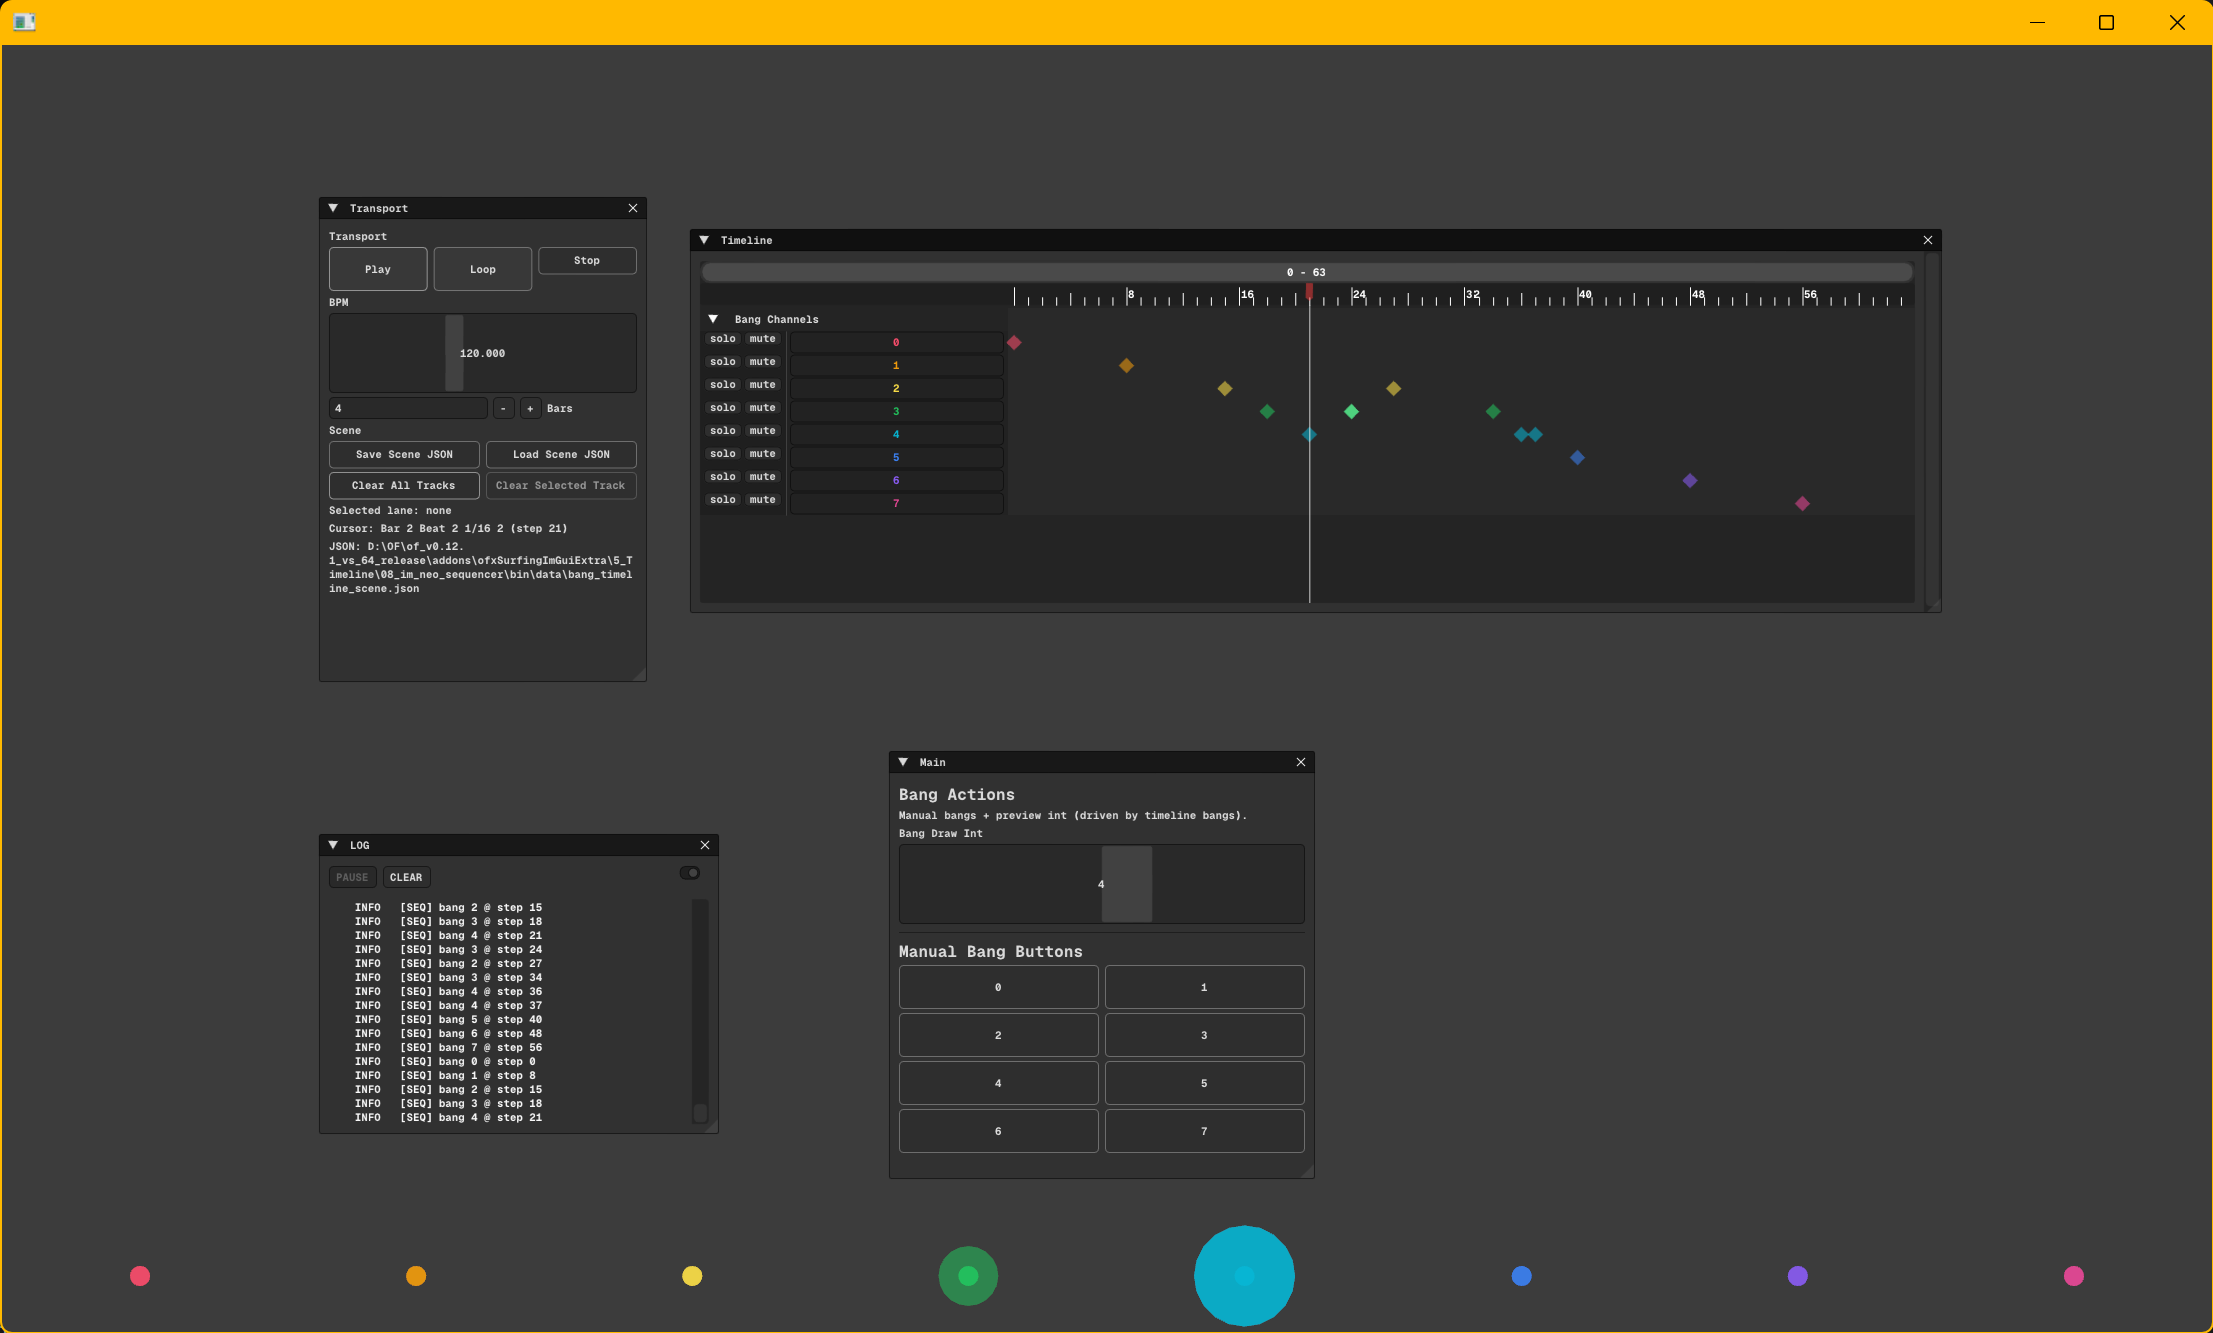
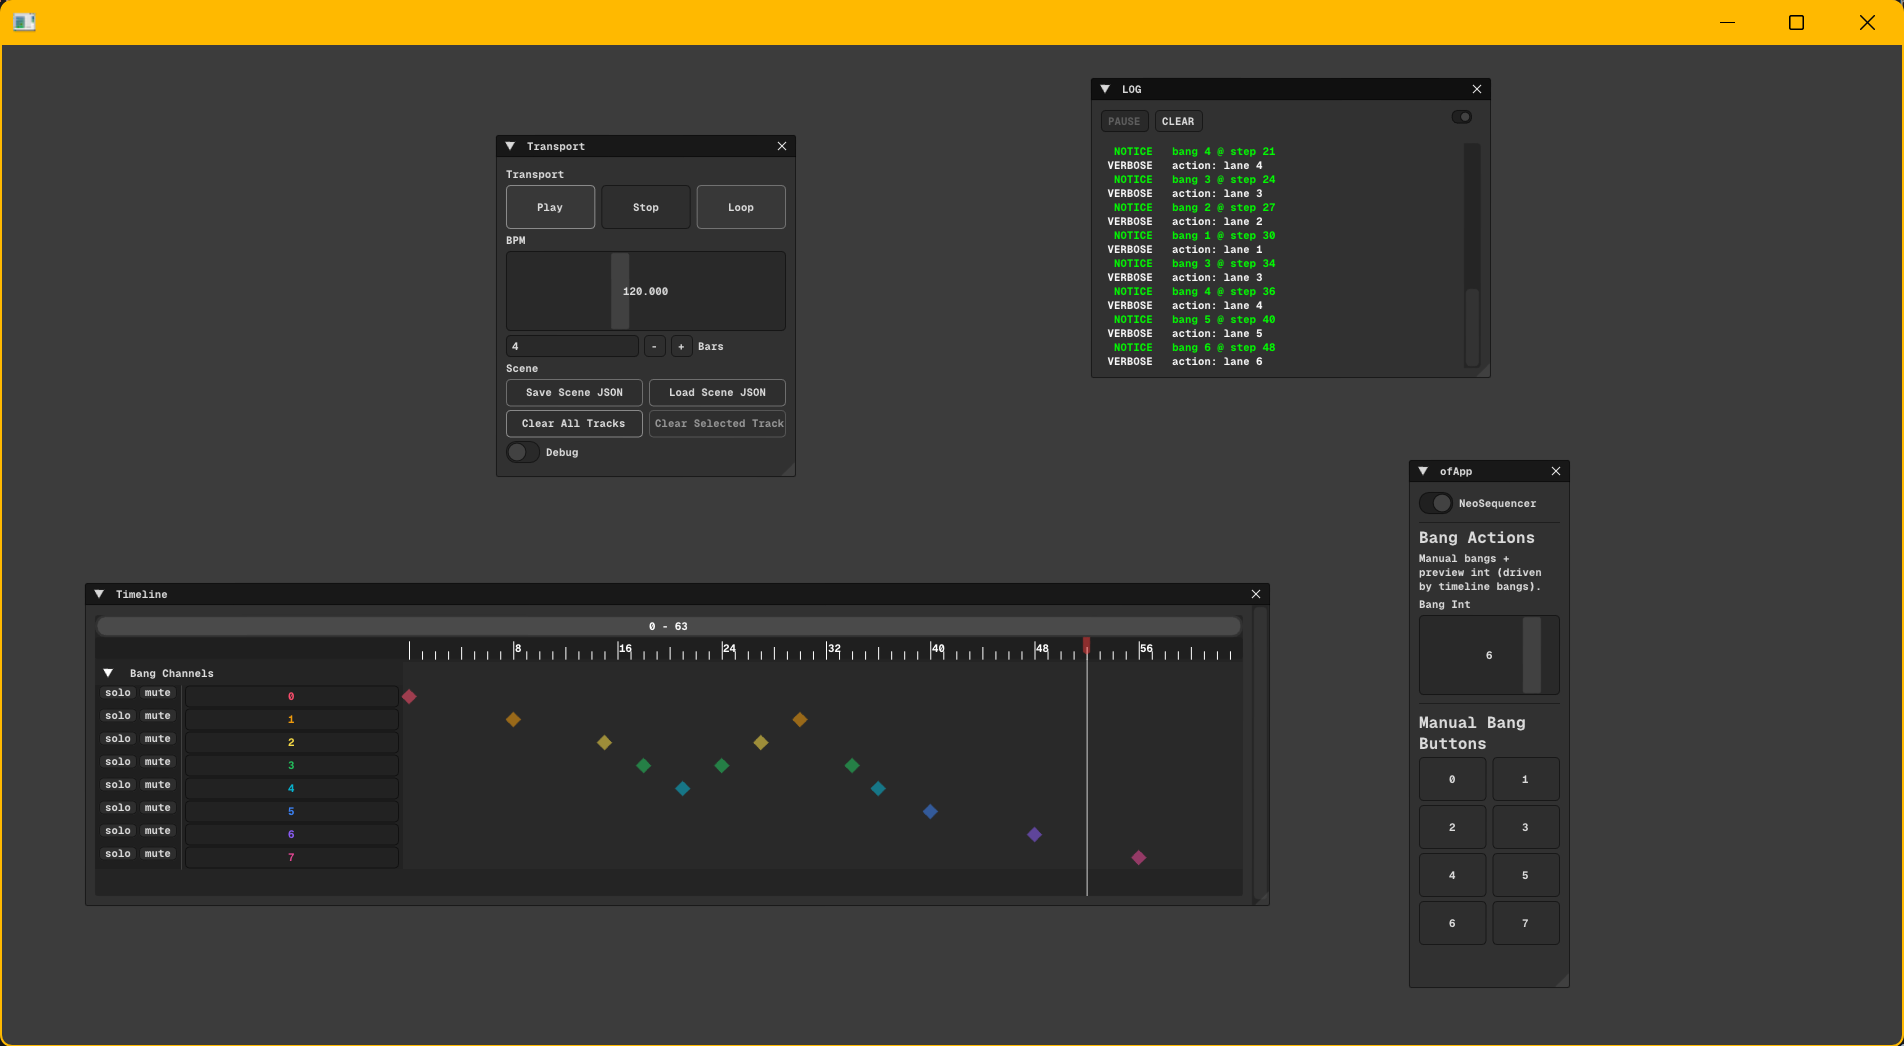
Refactor SurfingNeoSequencer API and rename instance
Move SurfingNeoSequencer header into im_neo_sequencer folder and update example to new API. Remove the ofApp* dependency from SurfingNeoSequencer (drop app_ member), add setUiPtr(ofxSurfingGui*) and change setup to accept only ofxSurfingGui*. Update ofApp to use a renamed sequencer instance (no trailing underscore), adjust all calls (setup, update, drawImGui, exit, key handling, setBangCallback, and parameter access), and remove an unused laneColors_ array. Also update the example capture image. These changes decouple the sequencer from ofApp and simplify its setup interface.

diff --git a/Examples_2_Modules/33_im_neo_sequencer_Simple/src/ofApp.cpp b/Examples_2_Modules/33_im_neo_sequencer_Simple/src/ofApp.cpp
@@ -10,18 +10,16 @@ void ofApp::setup() {
 	ui.setup();
 	ui.bLog = true;
 
-	sequencer_.setup(this, &ui);
-
-	sequencer_.setBangCallback([this](std::size_t lane, ImGui::FrameIndexType step, bool fromTimeline) {
+	sequencer.setup(&ui);
+	sequencer.setBangCallback([this](std::size_t lane, ImGui::FrameIndexType step, bool fromTimeline) {
 		onBangEvent(lane, step, fromTimeline);
 	});
-
 }
 
 //--------------------------------------------------------------
 void ofApp::update() {
 
-	sequencer_.update();
+	sequencer.update();
 }
 
 //--------------------------------------------------------------
@@ -35,7 +33,7 @@ void ofApp::drawGui() {
 	{
 		drawImGuiBangs();
 
-		sequencer_.drawImGui();
+		sequencer.drawImGui();
 	}
 	ui.End();
 }
@@ -43,7 +41,7 @@ void ofApp::drawGui() {
 //--------------------------------------------------------------
 void ofApp::drawImGuiBangs() {
 	if (ui.BeginWindow(bGui_ofApp)) {
-		ui.Add(sequencer_.bGui, OFX_IM_TOGGLE_ROUNDED);
+		ui.Add(sequencer.bGui, OFX_IM_TOGGLE_ROUNDED);
 		ui.AddSeparated();
 
 		ui.AddLabelBig("Bang Actions");
@@ -54,7 +52,7 @@ void ofApp::drawImGuiBangs() {
 
 		ui.AddLabelBig("Manual Bang Buttons");
 
-		auto & bangs = sequencer_.getBangParameters();
+		auto & bangs = sequencer.getBangParameters();
 		for (std::size_t i = 0; i < bangs.size(); ++i) {
 			const bool sameLine = (i % 2 == 0);
 			ui.Add(bangs[i], OFX_IM_BUTTON_BIG, 2, sameLine);
@@ -105,15 +103,15 @@ void ofApp::onBangEvent(std::size_t lane, ImGui::FrameIndexType step, bool fromT
 
 //--------------------------------------------------------------
 void ofApp::exit() {
-	sequencer_.exit();
+	sequencer.exit();
 }
 
 //--------------------------------------------------------------
 void ofApp::keyPressed(int key) {
-	sequencer_.keyPressed(key);
+	sequencer.keyPressed(key);
 
 	if (key == 'g' || key == 'G') bGui_ofApp = !bGui_ofApp;
 
-	if (key == 'u' || key == 'U') sequencer_.bGuiTransport = !sequencer_.bGuiTransport;
-	if (key == 't' || key == 'T') sequencer_.bGuiTimeline = !sequencer_.bGuiTimeline;
+	if (key == 'u' || key == 'U') sequencer.bGuiTransport = !sequencer.bGuiTransport;
+	if (key == 't' || key == 'T') sequencer.bGuiTimeline = !sequencer.bGuiTimeline;
 }

diff --git a/Examples_2_Modules/33_im_neo_sequencer_Simple/src/im_neo_sequencer/SurfingNeoSequencer.h b/Examples_2_Modules/33_im_neo_sequencer_Simple/src/im_neo_sequencer/SurfingNeoSequencer.h
@@ -15,8 +15,6 @@
 #include "imgui_neo_sequencer.h"
 #include "ofxSurfingImGui.h"
 
-class ofApp;
-
 class SurfingNeoSequencer {
 public:
 	static constexpr std::size_t kBangCount = 8;
@@ -28,9 +26,12 @@ public:
 
 	double lastUpdateTime_ = 0.0;
 
-	void setup(ofApp * app, ofxSurfingGui * ui) {
-		app_ = app;
+	void setUiPtr(ofxSurfingGui * ui) {
 		ui_ = ui;
+	}
+
+	void setup(ofxSurfingGui * ui) {
+		setUiPtr(ui);
 
 		setupBangParameters();
 		setupBangListeners();
@@ -146,7 +147,6 @@ public:
 	}
 
 private:
-	ofApp * app_ = nullptr;
 	ofxSurfingGui * ui_ = nullptr;
 
 	BangCallback bangCallback_;

diff --git a/Examples_2_Modules/33_im_neo_sequencer_Simple/src/ofApp.h b/Examples_2_Modules/33_im_neo_sequencer_Simple/src/ofApp.h
@@ -21,12 +21,9 @@ public:
 	void keyPressed(int key);
 
 private:
-	SurfingNeoSequencer sequencer_;
-
+	SurfingNeoSequencer sequencer;
+	void onBangEvent(std::size_t lane, ImGui::FrameIndexType step, bool fromTimeline);
 	ofParameter<int> targetBangsInt { "Bang Int", 0, 0, static_cast<int>(SurfingNeoSequencer::kBangCount) - 1 };
 
-	std::array<ofFloatColor, SurfingNeoSequencer::kBangCount> laneColors_ {};
-
 	void drawImGuiBangs();
-	void onBangEvent(std::size_t lane, ImGui::FrameIndexType step, bool fromTimeline);
 };
